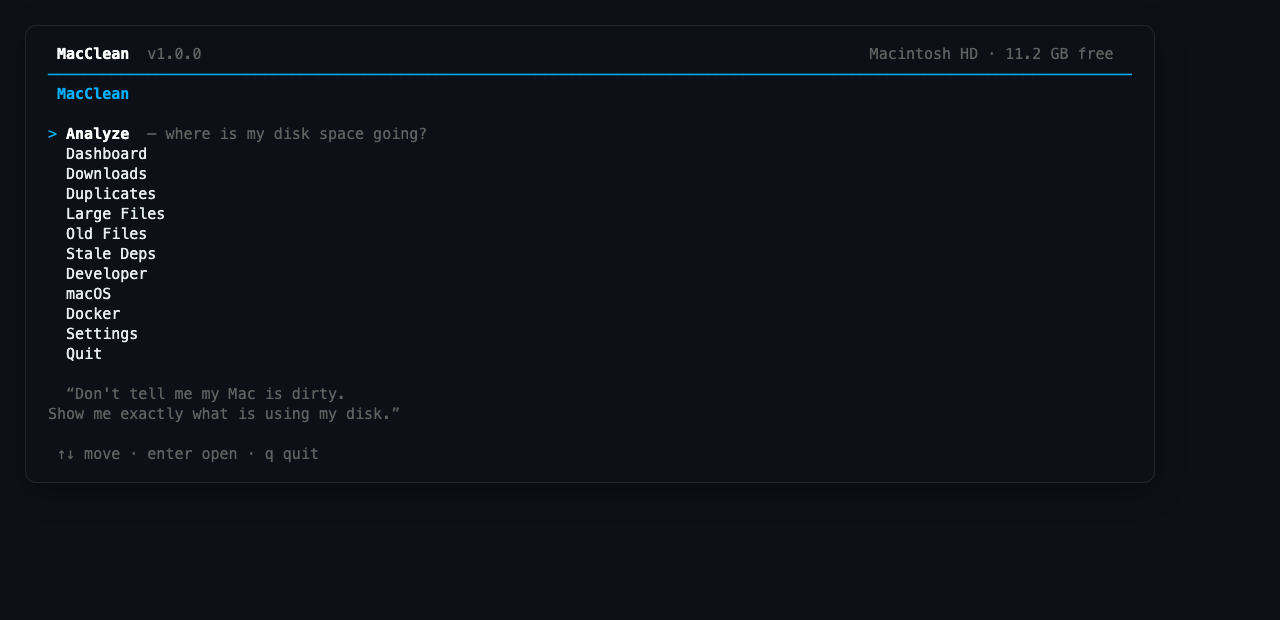
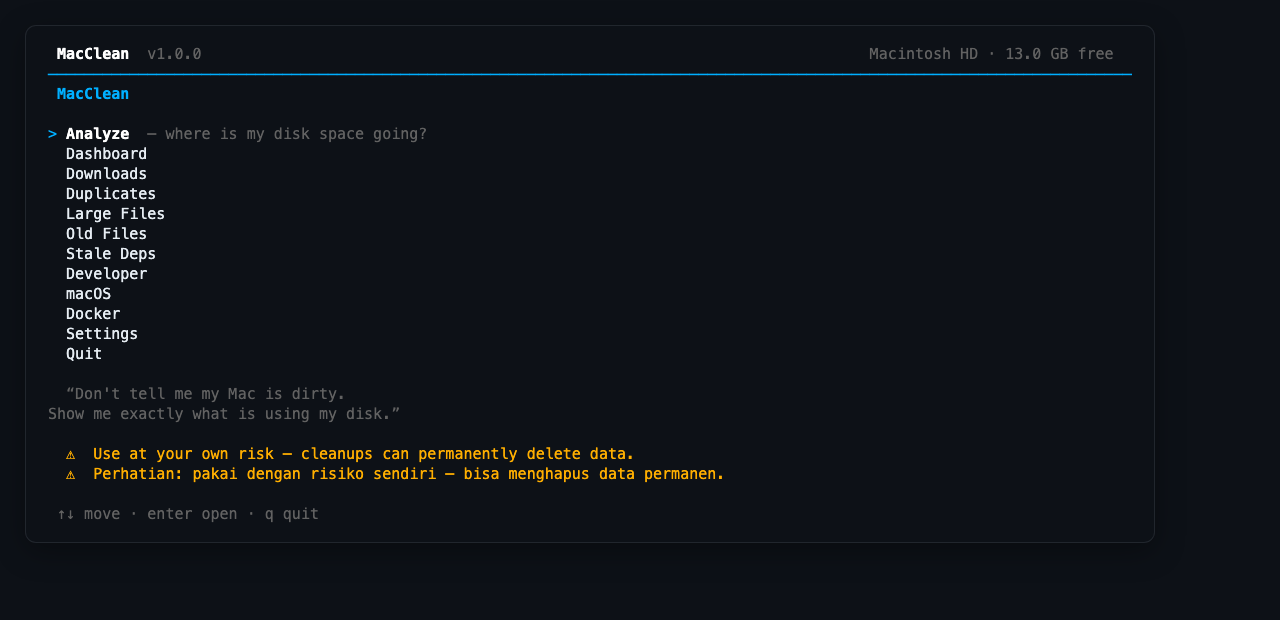
Add bilingual (EN/ID) at-your-own-risk warning
- README WARNING alert now also in Indonesian: 'PERHATIAN: gunakan
  dengan risiko Anda sendiri — alat ini dapat menghapus data Anda
  secara PERMANEN'
- CLI help shows the Indonesian warning above usage
- TUI menu shows both warning lines on every launch
- menu.png regenerated with the warnings visible
- cmd/renderui + tui.ScreenshotView: render screens for docs without
  a pty (deterministic View() dump with forced ANSI-256 colors)
- Warning test now asserts both languages

diff --git a/internal/tui/screenshot.go b/internal/tui/screenshot.go
@@ -1,0 +1,29 @@
+package tui
+
+import (
+	"context"
+
+	tea "github.com/charmbracelet/bubbletea"
+	"github.com/charmbracelet/lipgloss"
+	"github.com/muesli/termenv"
+
+	"macclean/internal/settings"
+)
+
+// ScreenshotView renders one screen's View() output for documentation
+// images — no terminal needed. Colors are forced to ANSI-256 so the output
+// matches what a real terminal shows. Currently supports the main menu,
+// which is where the usage warning lives.
+func ScreenshotView(name string, width, height int) string {
+	lipgloss.SetColorProfile(termenv.ANSI256)
+	m := &model{version: "1.0.0", runCtx: context.Background(), s: settings.Defaults()}
+	m.send = func(tea.Msg) {}
+	m.Update(tea.WindowSizeMsg{Width: width, Height: height})
+	switch name {
+	case "menu":
+		// default state is the menu
+	default:
+		return ""
+	}
+	return m.View()
+}

diff --git a/internal/tui/views.go b/internal/tui/views.go
@@ -164,7 +164,8 @@ func (m *model) viewMenu() string {
 	quote := dimStyle.Render("\n  “Don't tell me my Mac is dirty.")
 	quote2 := dimStyle.Render("Show me exactly what is using my disk.”")
 	warn := warnStyle.Render("\n  ⚠  Use at your own risk — cleanups can permanently delete data.")
-	return strings.Join(rows, "\n") + "\n" + quote + "\n" + quote2 + "\n" + warn + "\n"
+	warnID := warnStyle.Render("  ⚠  Perhatian: pakai dengan risiko sendiri — bisa menghapus data permanen.")
+	return strings.Join(rows, "\n") + "\n" + quote + "\n" + quote2 + "\n" + warn + "\n" + warnID + "\n"
 }
 
 // ---- roots ----

diff --git a/cmd/renderui/main.go b/cmd/renderui/main.go
@@ -1,0 +1,24 @@
+// renderui dumps a TUI screen's View() as raw ANSI for screenshot
+// generation without a pty. Development helper, not part of the shipped
+// CLI: go run ./cmd/renderui <screen>
+package main
+
+import (
+	"fmt"
+	"os"
+
+	"macclean/internal/tui"
+)
+
+func main() {
+	name := "menu"
+	if len(os.Args) > 1 {
+		name = os.Args[1]
+	}
+	out := tui.ScreenshotView(name, 120, 40)
+	if out == "" {
+		fmt.Fprintln(os.Stderr, "unknown screen:", name)
+		os.Exit(1)
+	}
+	os.Stdout.WriteString(out)
+}

diff --git a/main.go b/main.go
@@ -81,6 +81,8 @@ func usage() {
 	fmt.Print(`macclean — see exactly what is using your disk
 
 ⚠  USE AT YOUR OWN RISK — this tool can PERMANENTLY DELETE your data.
+   PERHATIAN: gunakan dengan risiko Anda sendiri — alat ini dapat
+   menghapus data Anda secara PERMANEN.
    Trash-emptying, destructive items and --hard removals are irreversible.
    Always review the paths shown before confirming. See "macclean help".
 

diff --git a/internal/tui/warnview_test.go b/internal/tui/warnview_test.go
@@ -14,4 +14,7 @@ func TestMenuShowsRiskWarning(t *testing.T) {
 	if !strings.Contains(view, "own risk") || !strings.Contains(view, "permanently delete data") {
 		t.Fatalf("menu must show the at-your-own-risk warning:\n%s", view)
 	}
+	if !strings.Contains(view, "risiko sendiri") || !strings.Contains(view, "permanen") {
+		t.Fatalf("menu must show the Indonesian warning:\n%s", view)
+	}
 }

diff --git a/README.md b/README.md
@@ -20,10 +20,13 @@ decide.
 
 > [!WARNING]
 > **USE AT YOUR OWN RISK — this tool can permanently delete your data.**
+> **PERHATIAN: gunakan dengan risiko Anda sendiri — alat ini dapat
+> menghapus data Anda secara PERMANEN.**
 > Cleanups like emptying the Trash, destructive items, or `--hard` removals
-> are **irreversible**. Always review the listed paths and sizes before
-> confirming a deletion. The authors accept no liability for data loss.
-> See the [safety model](#safety-model) for which actions are recoverable.
+> are **irreversible** (tidak dapat dibatalkan). Always review the paths
+> and sizes shown before confirming. The authors accept no liability for
+> data loss. See the [safety model](#safety-model) for which actions are
+> recoverable.
 
 ## Screenshots
 
